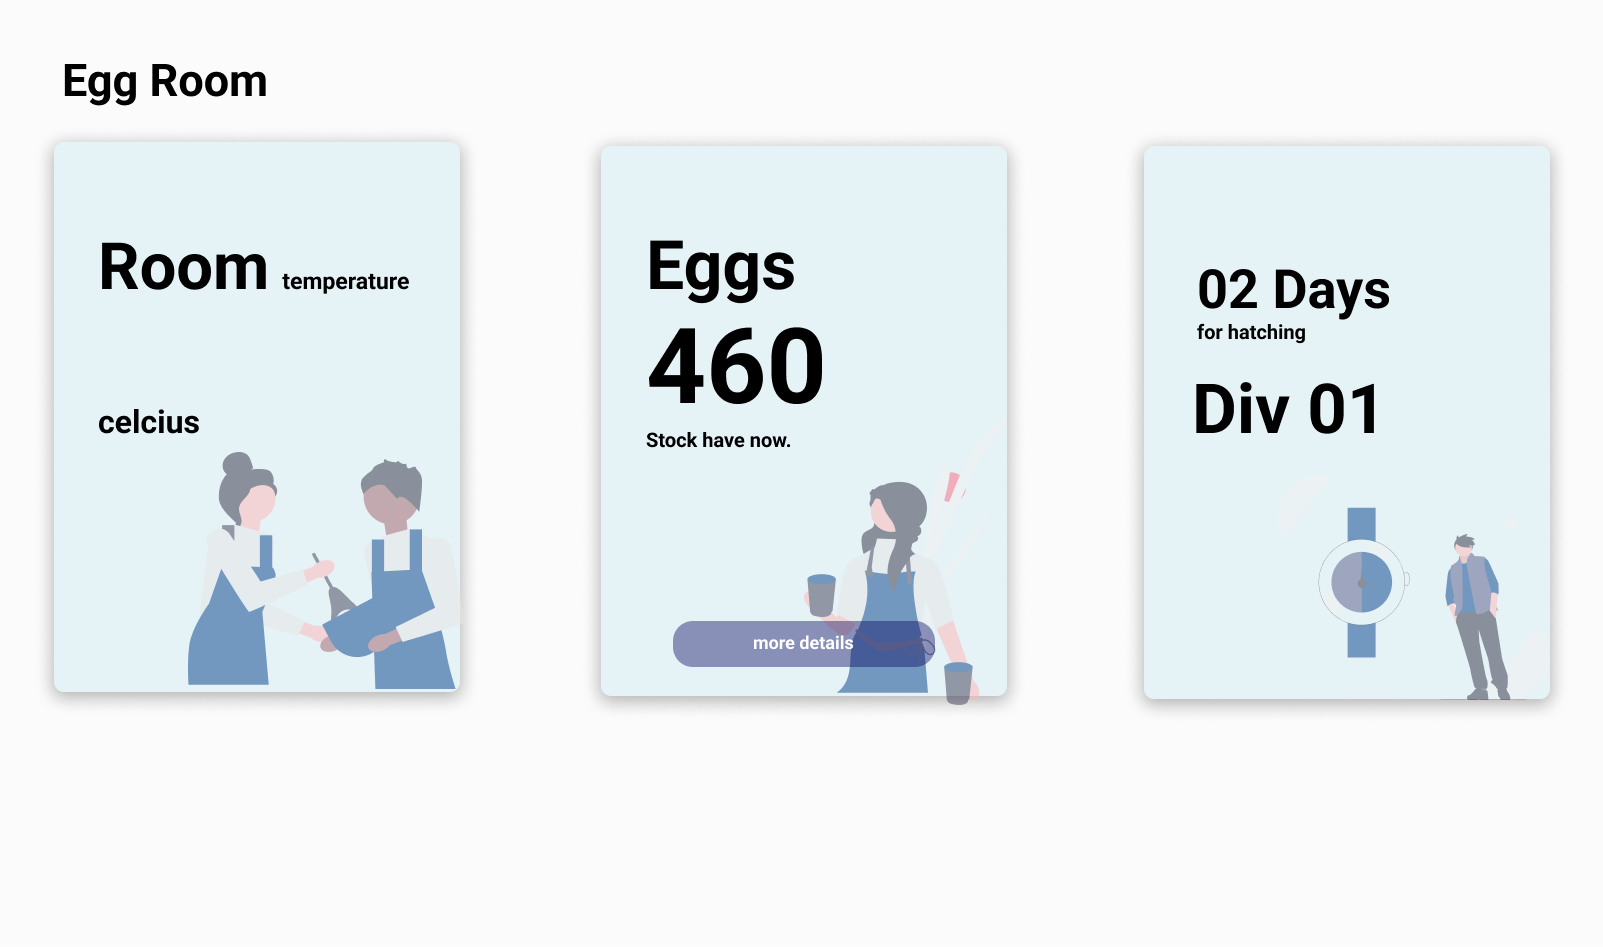
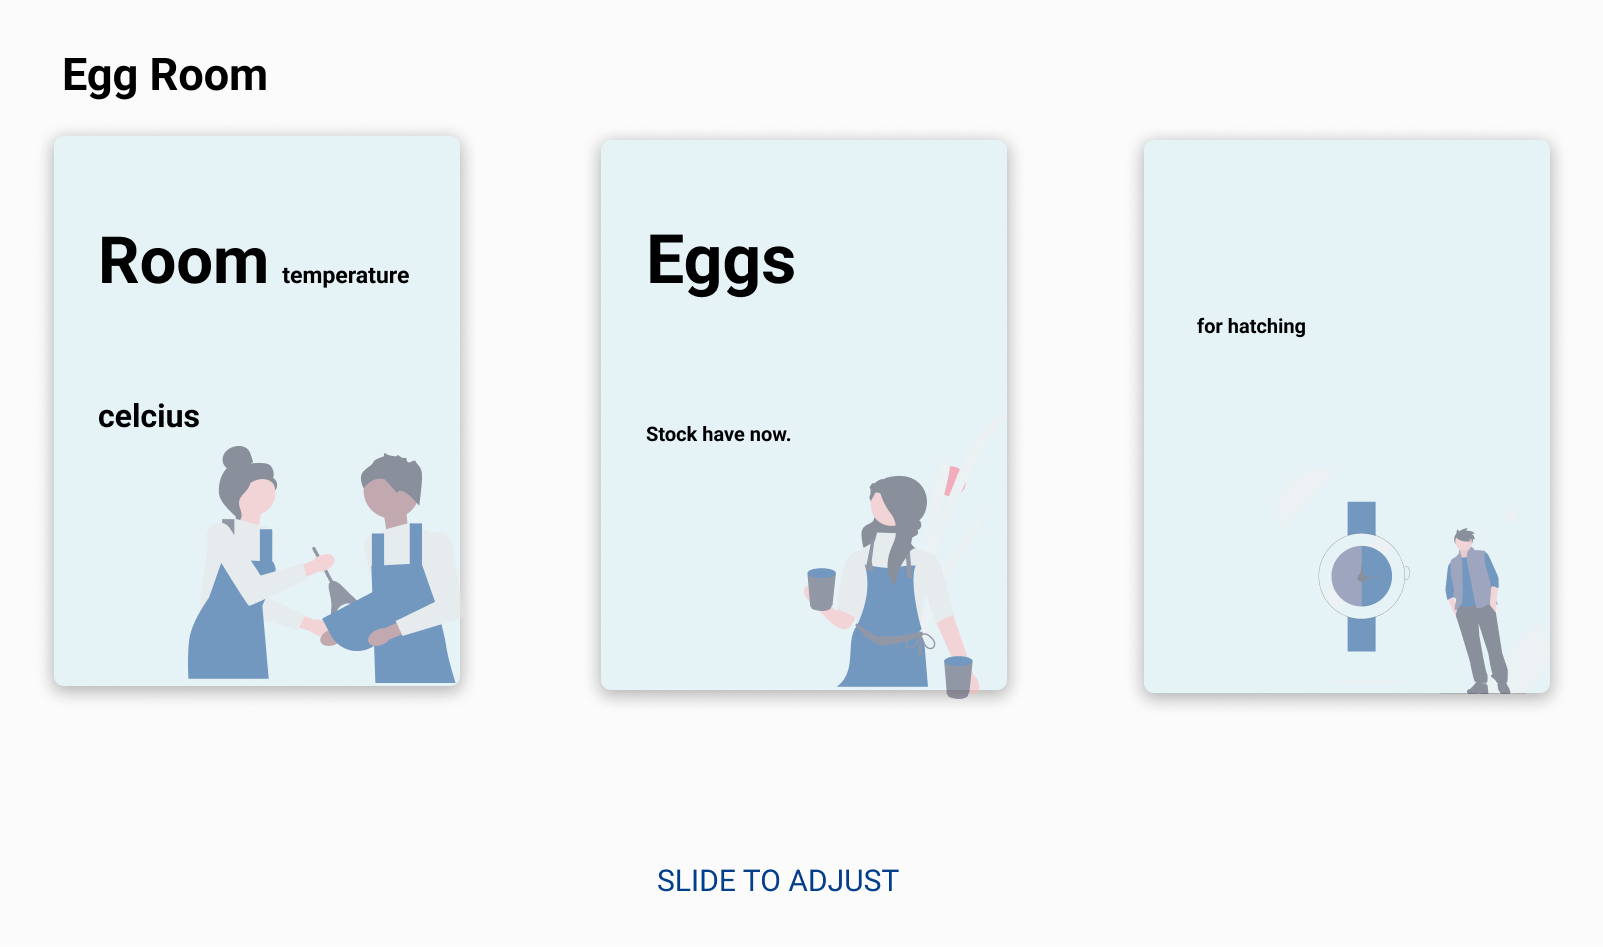
eggsRoomForm.fxml finished

diff --git a/turtleCare/src/main/java/lk/ijse/controller/EggsRoomFormController.java b/turtleCare/src/main/java/lk/ijse/controller/EggsRoomFormController.java
@@ -1,11 +1,28 @@
 package lk.ijse.controller;
 
+import com.jfoenix.controls.JFXSlider;
 import javafx.fxml.FXML;
+import javafx.scene.control.Label;
 import javafx.scene.layout.AnchorPane;
 
 public class EggsRoomFormController {
 
     @FXML
+    private Label divisionOfHatch;
+
+    @FXML
+    private Label eggsInStock;
+
+    @FXML
     private AnchorPane eggsRoomPane;
+
+    @FXML
+    private Label numberOfDaysForHatch;
+
+    @FXML
+    private JFXSlider sliderOfControlTemp;
+
+    @FXML
+    private Label temperatureShowLbl;
 
 }
